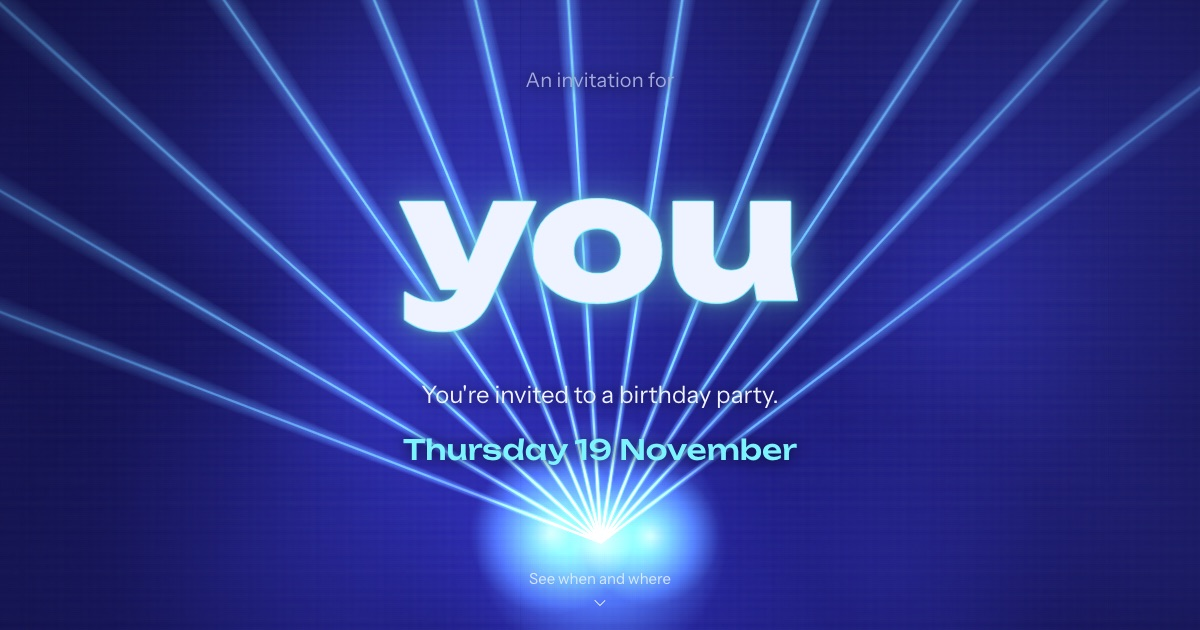
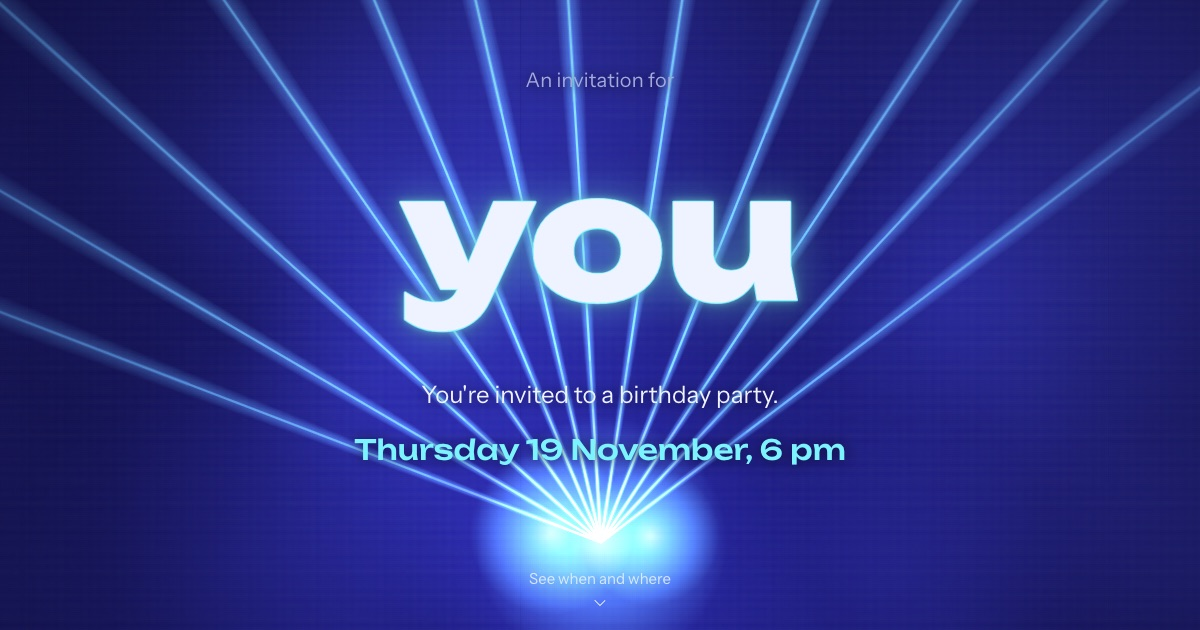
Set the party start time to 6 pm
Shows the time in the hero and the When section, and updates the
calendar links, the .ics file and the link preview image.

Changed region(s): [[0.2775, 0.6937, 0.7092, 0.754]]

diff --git a/assets/js/invite.js b/assets/js/invite.js
@@ -33,6 +33,13 @@ function formatDates() {
   };
 }
 
+// '18:00' -> '6 pm', '18:30' -> '6:30 pm', with a no-break space so it never splits.
+function formatTime(value) {
+  const [h, m] = value.split(':').map(Number);
+  const hour = h % 12 || 12;
+  return `${hour}${m ? `:${String(m).padStart(2, '0')}` : ''}\u00a0${h < 12 ? 'am' : 'pm'}`;
+}
+
 function nightsLeft() {
   const parts = new Intl.DateTimeFormat('en-US', {
     year: 'numeric', month: 'numeric', day: 'numeric', timeZone: 'Asia/Tehran',
@@ -122,13 +129,13 @@ function fillDetails() {
     : "You're invited to a birthday party.";
 
   const dates = formatDates();
-  $('[data-date-short]').textContent = dates.short;
+  $('[data-date-short]').textContent = PARTY.startTime ? `${dates.short}, ${formatTime(PARTY.startTime)}` : dates.short;
   $('[data-date-weekday]').textContent = dates.weekday;
   $('[data-date-long]').textContent = dates.long;
   $('[data-date-alt]').textContent = dates.persian;
   const timeEl = $('[data-time]');
   timeEl.hidden = !PARTY.startTime;
-  if (PARTY.startTime) timeEl.textContent = `Starts at ${PARTY.startTime}`;
+  if (PARTY.startTime) timeEl.textContent = `Starts at ${formatTime(PARTY.startTime)}`;
 
   const n = nightsLeft();
   $('[data-nights]').textContent = nightsLabel(n);

diff --git a/index.html b/index.html
@@ -4,12 +4,12 @@
   <meta charset="utf-8">
   <meta name="viewport" content="width=device-width, initial-scale=1, viewport-fit=cover">
   <title>You're invited to a birthday party</title>
-  <meta name="description" content="You're invited to a birthday party on Thursday 19 November 2026 in Shahrak-e Gharb, Tehran.">
+  <meta name="description" content="You're invited to a birthday party on Thursday 19 November 2026 at 6 pm in Shahrak-e Gharb, Tehran.">
   <meta name="theme-color" content="#05041a">
   <meta name="color-scheme" content="dark">
   <meta property="og:type" content="website">
   <meta property="og:title" content="You're invited to a birthday party">
-  <meta property="og:description" content="Thursday 19 November 2026, Shahrak-e Gharb, Tehran">
+  <meta property="og:description" content="Thursday 19 November 2026, 6 pm, Shahrak-e Gharb, Tehran">
   <meta property="og:image" content="https://you-are-invited-to-party.github.io/you-are-invited-to-party/assets/og.jpg">
   <meta property="og:image:width" content="1200">
   <meta property="og:image:height" content="630">

diff --git a/assets/js/config.js b/assets/js/config.js
@@ -11,7 +11,7 @@ export const PARTY = {
 
   // Start time in Tehran as 'HH:MM' (24h), e.g. '20:00'. Leave empty to show
   // the date only.
-  startTime: '',
+  startTime: '18:00',
 
   // The address as a route, from the neighbourhood down to the door.
   route: {

diff --git a/assets/css/invite.css b/assets/css/invite.css
@@ -144,6 +144,8 @@ main {
 }
 
 .hero__date {
+  max-width: 22ch;
+  text-wrap: balance;
   font-family: var(--font-display);
   font-weight: 500;
   font-size: clamp(20px, 2.6vw, 28px);

diff --git a/README.md b/README.md
@@ -19,10 +19,10 @@ You can also write a link by hand: `.../?to=Sara`.
 Edit [`assets/js/config.js`](assets/js/config.js):
 
 - `host`: whose birthday it is (leave empty to keep it neutral)
-- `startTime`: the start time in Tehran, like `'20:00'` (leave empty to show the date only)
+- `startTime`: the start time in Tehran, like `'18:00'` (leave empty to show the date only)
 - `date`, `route`, `addressFa` and `map`: the date and the address
 
-The Apple Calendar file is [`party.ics`](party.ics). If you add a start time, update `DTSTART` and `DTEND` there too.
+The Apple Calendar file is [`party.ics`](party.ics). If you change the date or time, update `DTSTART` and `DTEND` there too (they're in UTC; Tehran is UTC+3:30).
 
 ## Running locally
 
